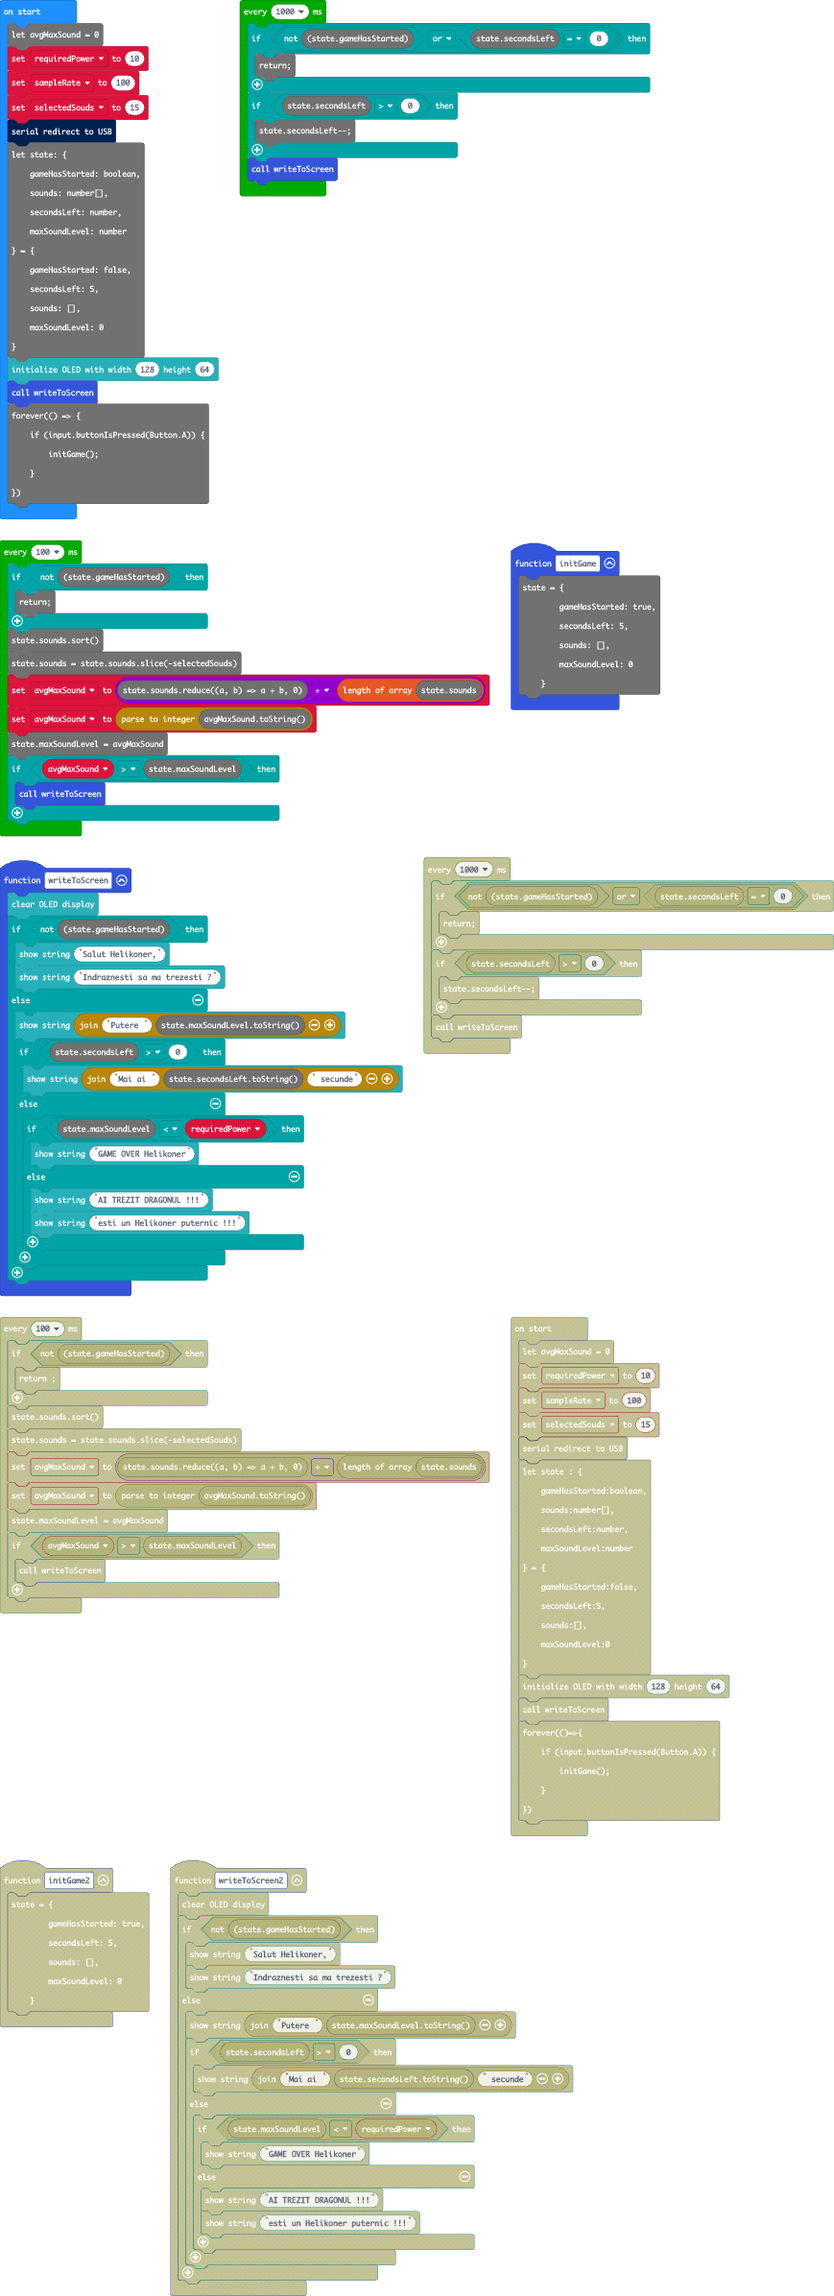
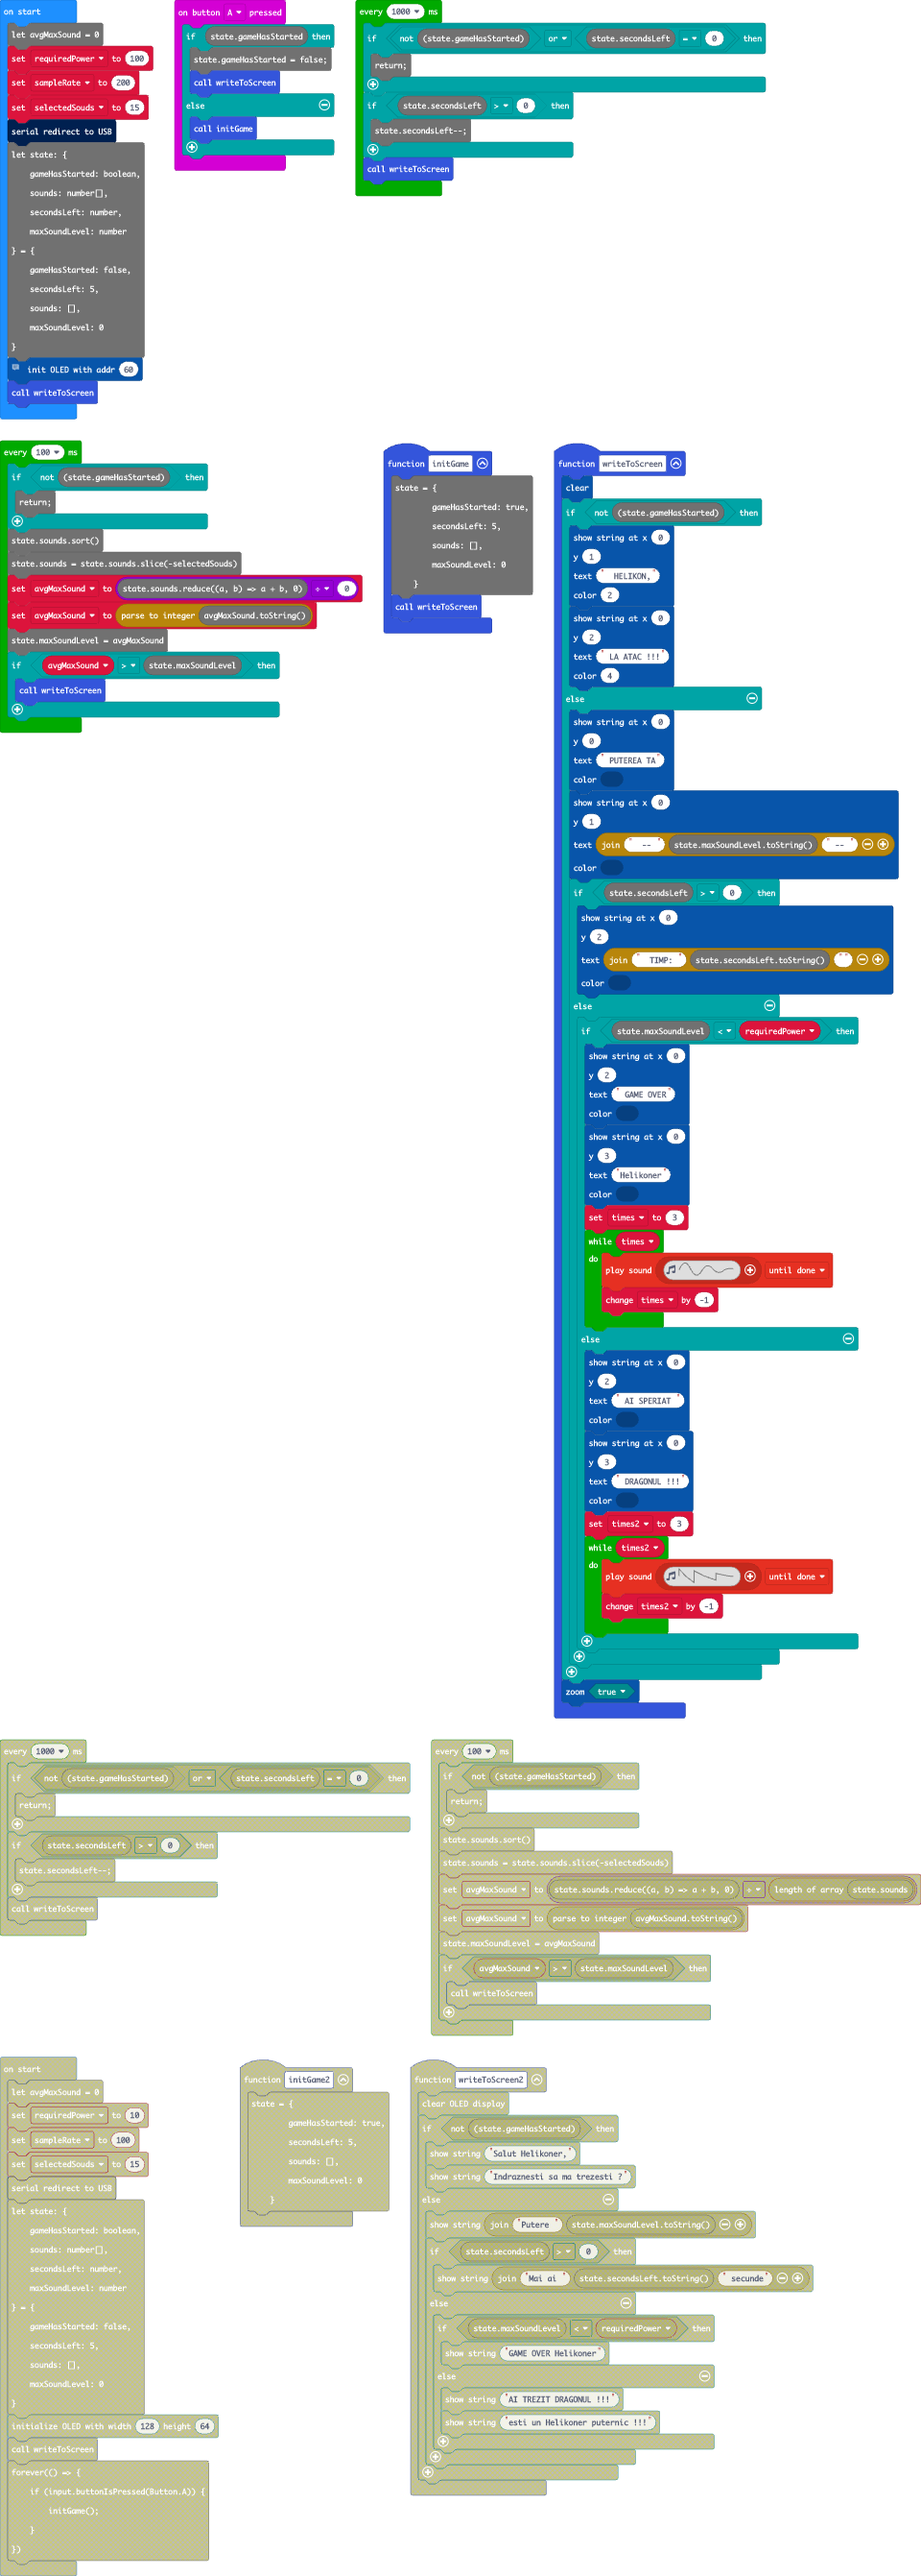
Update main.blocks, main.ts

diff --git a/main.ts b/main.ts
@@ -1,3 +1,11 @@
+input.onButtonPressed(Button.A, function () {
+    if (state.gameHasStarted) {
+        state.gameHasStarted = false;
+writeToScreen()
+    } else {
+        initGame()
+    }
+})
 function initGame () {
     state = {
         gameHasStarted: true,
@@ -5,36 +13,79 @@ function initGame () {
         sounds: [],
         maxSoundLevel: 0
     }
-    writeToScreen()
+writeToScreen()
 }
-
-
 function writeToScreen () {
     OLED12864_I2C.clear()
     if (!(state.gameHasStarted)) {
-        OLED12864_I2C.showString(0, 1,"  HELIKON,",2)
-        OLED12864_I2C.showString(0,2," LA ATAC !!!",4)
+        OLED12864_I2C.showString(
+        0,
+        1,
+        "  HELIKON,",
+        2
+        )
+        OLED12864_I2C.showString(
+        0,
+        2,
+        " LA ATAC !!!",
+        4
+        )
     } else {
-        OLED12864_I2C.showString(0, 0, " PUTEREA TA")
-        OLED12864_I2C.showString(0,1,"  -- " + state.maxSoundLevel.toString() +  " -- ")
+        OLED12864_I2C.showString(
+        0,
+        0,
+        " PUTEREA TA",
+        2
+        )
+        OLED12864_I2C.showString(
+        0,
+        1,
+        "  -- " + state.maxSoundLevel.toString() + " -- ",
+        0
+        )
         if (state.secondsLeft > 0) {
-            OLED12864_I2C.showString(0, 2,"  TIMP: " + state.secondsLeft.toString() + "")
+            OLED12864_I2C.showString(
+            0,
+            2,
+            "  TIMP: " + state.secondsLeft.toString() + "",
+            0
+            )
         } else {
             if (state.maxSoundLevel < requiredPower) {
-                OLED12864_I2C.showString(0, 2, " GAME OVER")
-                OLED12864_I2C.showString(0, 3, "Helikoner")
-                let times = 3;
+                OLED12864_I2C.showString(
+                0,
+                2,
+                " GAME OVER",
+                2
+                )
+                OLED12864_I2C.showString(
+                0,
+                3,
+                "Helikoner",
+                2
+                )
+                times = 3
                 while (times) {
                     music.playSoundEffect(music.createSoundEffect(WaveShape.Sine, 1056, 1481, 255, 0, 200, SoundExpressionEffect.None, InterpolationCurve.Logarithmic), SoundExpressionPlayMode.UntilDone)
-                    times--;
+                    times += -1
                 }
             } else {
-                OLED12864_I2C.showString(0, 2," AI SPERIAT ")
-                OLED12864_I2C.showString(0, 3, " DRAGONUL !!!")
-                let times = 3;
-                while (times) {
+                OLED12864_I2C.showString(
+                0,
+                2,
+                " AI SPERIAT ",
+                0
+                )
+                OLED12864_I2C.showString(
+                0,
+                3,
+                " DRAGONUL !!!",
+                0
+                )
+                times2 = 3
+                while (times2) {
                     music.playSoundEffect(music.createSoundEffect(WaveShape.Sawtooth, 3367, 178, 255, 0, 421, SoundExpressionEffect.None, InterpolationCurve.Logarithmic), SoundExpressionPlayMode.UntilDone)
-                    times--;
+                    times2 += -1
                 }
             }
         }
@@ -42,10 +93,12 @@ function writeToScreen () {
     OLED12864_I2C.zoom(true)
 }
 let soundLevel = 0
+let times2 = 0
+let times = 0
 let requiredPower = 0
 let avgMaxSound = 0
-requiredPower = 10
-let sampleRate = 100
+requiredPower = 100
+let sampleRate = 200
 let selectedSouds = 15
 serial.redirectToUSB()
 let state: {
@@ -59,19 +112,9 @@ let state: {
     sounds: [],
     maxSoundLevel: 0
 }
-//OLED.init(128, 64)
+// OLED.init(128, 64)
 OLED12864_I2C.init(60)
 writeToScreen()
-input.onButtonPressed(Button.A,()=>{
-    if (state.gameHasStarted){
-        state.gameHasStarted = false;
-        writeToScreen()
-    }
-    else{
-        initGame();
-    }
-})
-
 loops.everyInterval(1000, function () {
     if (!(state.gameHasStarted) || state.secondsLeft == 0) {
         return;
@@ -98,7 +141,8 @@ loops.everyInterval(100, function () {
     }
     state.sounds.sort()
 state.sounds = state.sounds.slice(-selectedSouds)
-avgMaxSound = state.sounds.reduce((a, b) => a + b, 0) / (state.sounds.length || 1)
+    let numberOfSoundsRecorded = state.sounds.length
+    avgMaxSound = state.sounds.reduce((a, b) => a + b, 0) / numberOfSoundsRecorded
     avgMaxSound = parseInt(avgMaxSound.toString())
     state.maxSoundLevel = avgMaxSound
 if (avgMaxSound > state.maxSoundLevel) {
